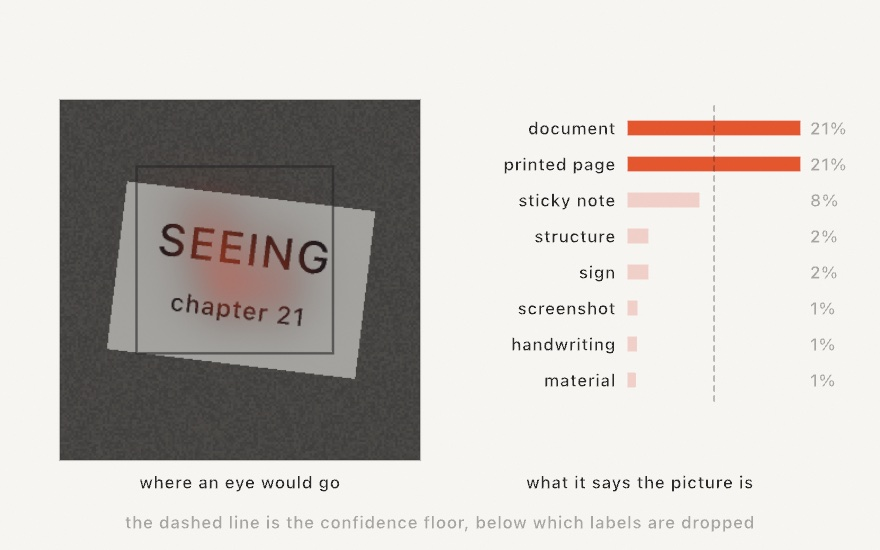
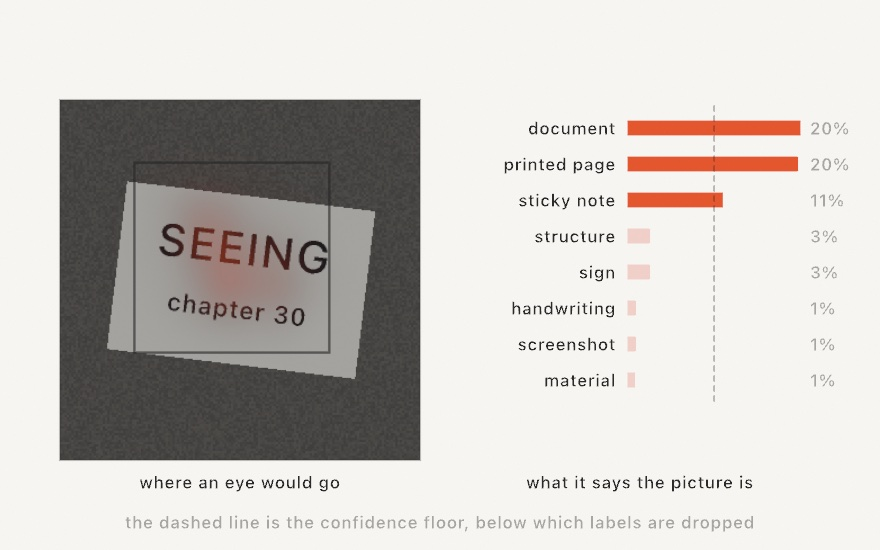
Let the pictures say which chapter they are in
Seeing moved from chapter 21 to 27 to 28 to 29 to 30 over four commits of
the Tier 3 renumber, and two of its figures went on drawing a card that
reads "chapter 21". A third labelled its optical-flow panel as Chapter
12's field while the prose two lines above it said Chapter 14, which is
where fields have been taught since that chapter moved twice as well. All
three are numbers baked into a JPEG, so every gate we have was blind to
them: guide-links reads markdown, and the renumber rewrites a figure's
header comment but stops at the code line by design.

The three strings are fixed and the three figures re-rendered. The card
now reads "chapter 30", and since that figure builds its own caption from
what the text recognizer read back, the right-hand label proves it.

Then the gap that let it happen. guide-renumber now reports every figure
that draws a chapter number, with file, line, and the whole string, so
the operator sees them and fixes them by hand. It reports rather than
rewrites on purpose: a header comment can be substituted safely, and a
string on a code line is what the picture says, so changing it blind
could change the figure's meaning. Four figures are reported today, and
the fourth is the one that was always right, EdgeStep naming Chapter 3's
easing curve.

Found by re-rendering the whole suite. Under the four-way parallel run
ReadingACard came back different, which turned out to be its Vision text
[…]

diff --git a/Guide/Figures/30-Seeing/FlowArrows.swift b/Guide/Figures/30-Seeing/FlowArrows.swift
@@ -61,7 +61,7 @@ final class FlowArrows: Sketch {
         drawText("what the camera sees", leftPanel.center.x, 472)
         drawText("how it moved since the frame before", rightPanel.center.x, 472)
         fill(soft)
-        drawText("a direction and a speed at every point: Chapter 12's field, measured from the world",
+        drawText("a direction and a speed at every point: Chapter 14's field, measured from the world",
                  width / 2, 512)
     }
 }

diff --git a/Guide/Figures/30-Seeing/AttentionAndLabels.swift b/Guide/Figures/30-Seeing/AttentionAndLabels.swift
@@ -40,7 +40,7 @@ final class AttentionAndLabels: Sketch {
         textSize(40)
         let title = tilted(textToShapes("SEEING", 0, 0), centeredOn: Vector2(160, 132))
         textSize(22)
-        let sub = tilted(textToShapes("chapter 21", 0, 0), centeredOn: Vector2(160, 188))
+        let sub = tilted(textToShapes("chapter 30", 0, 0), centeredOn: Vector2(160, 188))
 
         let image = AttentionAndLabels.render(glyphs: title + sub)
         scene = image

diff --git a/Guide/Figures/30-Seeing/ReadingACard.swift b/Guide/Figures/30-Seeing/ReadingACard.swift
@@ -34,7 +34,7 @@ final class ReadingACard: Sketch {
         textSize(40)
         let title = tilted(textToShapes("SEEING", 0, 0), centeredOn: Vector2(160, 132))
         textSize(22)
-        let sub = tilted(textToShapes("chapter 21", 0, 0), centeredOn: Vector2(160, 188))
+        let sub = tilted(textToShapes("chapter 30", 0, 0), centeredOn: Vector2(160, 188))
 
         let image = ReadingACard.render(glyphs: title + sub)
         scene = image
